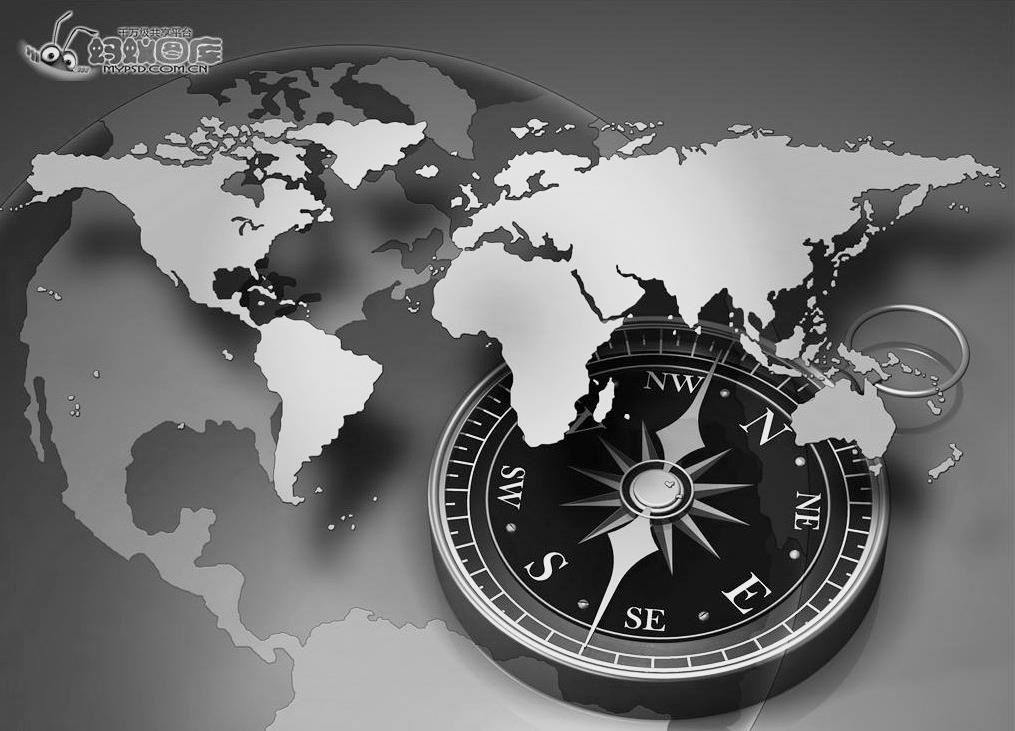
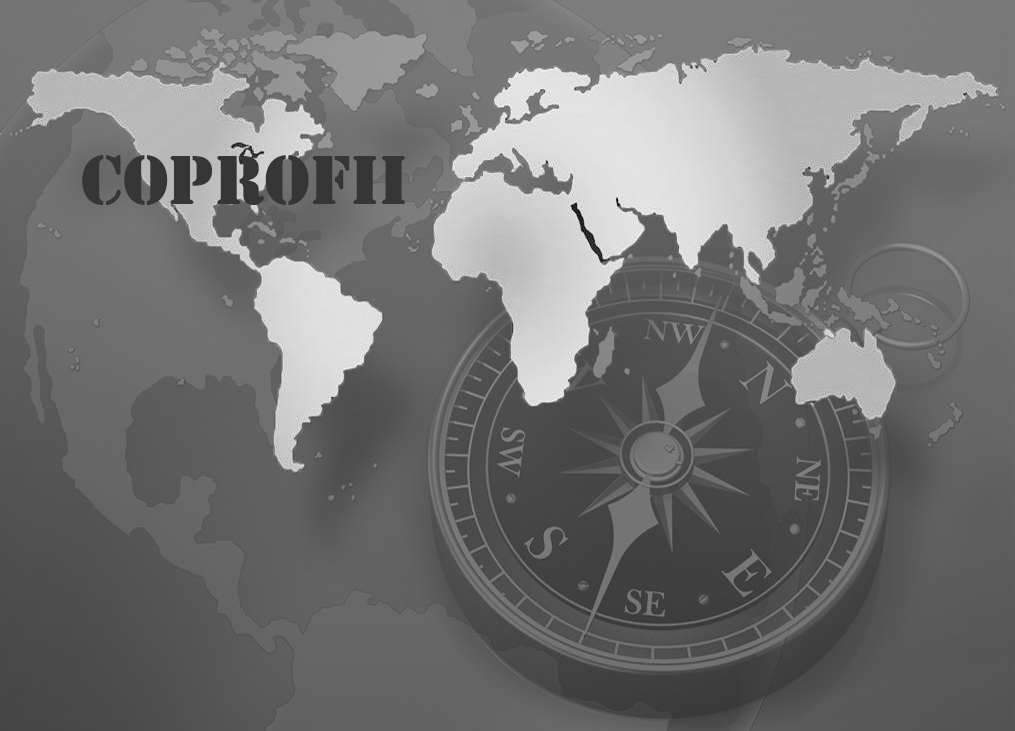
modify the interface of the software

diff --git a/Compass/src/nju/compass/GetData.java b/Compass/src/nju/compass/GetData.java
@@ -198,7 +198,7 @@ public class GetData extends java.util.TimerTask {
 			rowData[rowNumber][3] = df.format(1000.0 * (B * (1 + R * n / 12) - A * (1 + r * n / 12)));
 			content[rowNumber] = "At sight for RMB loans, with credit for RMB into Dollars in the bank. At the same time" 
 					+ time[i] + "s' equivalence dollars to buy the RMB.";
-					addcontent[rowNumber] = "This method successfully carry premise for forward contracts in the dollars to rise in" 
+			addcontent[rowNumber] = "This method successfully carry premise for forward contracts in the dollars to rise in" 
 					+ time[i] + "forward contracts to buy RMB to sell within the territory of the Dollar.";
 			rowNumber ++;
 		}
@@ -220,7 +220,7 @@ public class GetData extends java.util.TimerTask {
 					+ time[i] + "in the future, the duration of the loan for the interval months. Now a" + time[i] +
 					"period in sell the dollars forward contracts to buy the yuan, a" + time[j] + 
 					"period forward contracts to buy dollars to sell within the territory of the equivalent of RMB.";
-					addcontent[rowNumber] = "In interval months period, the RMB in the bank, with current term financial product yield increment.";
+			addcontent[rowNumber] = "In interval months period, the RMB in the bank, with current term financial product yield increment.";
 			rowNumber ++;
 			}
 		}
@@ -241,14 +241,39 @@ public class GetData extends java.util.TimerTask {
 					+ time[i] + "in the future, the duration of the loan for the interval months. Now a" + time[i] +
 					"period in sell the RMB forward contracts to buy the dollars, a" + time[j] + 
 					"period forward contracts to buy yuan to sell within the territory of the equivalent of dollars.";
-					addcontent[rowNumber] = "In interval months period, the dollars in the bank, with current term financial product yield increment.";
+			addcontent[rowNumber] = "In interval months period, the dollars in the bank, with current term financial product yield increment.";
 			rowNumber ++;
 			}
 		}
-		for (int i = 0; i < rowNumber; i++)
-			for (int j = 0; j < 4; j++)
-				rowData_t[i][j] = rowData[i][j];
 		
+		//System.out.print("{");
+		for (int i = 0; i < rowNumber; i++)
+		{
+			//System.out.print("{");
+			for (int j = 0; j < 4; j++)
+			{
+				rowData_t[i][j] = rowData[i][j];
+				//System.out.print("\"" + rowData[i][j] + "\"");
+				//if (j != 3) System.out.print(",");
+			}
+			//System.out.println("},");
+		}
+		/*
+		System.out.println("}");
+		System.out.print("{");
+		for (int i = 0; i < rowNumber; i++)
+		{
+			System.out.println("\"" + content[i] + "\",");
+		}
+		System.out.println("}");
+		System.out.print("{");
+		for (int i = 0; i < rowNumber; i++)
+		{
+			System.out.println("\"" + addcontent[i] + "\",");
+		}
+		System.out.println("}");
+		*/
+		System.out.println(rowNumber + "jinxin");
 		String Name = User.username;
 		String[] elements = {Name};
 		String[] property = {"name"};

diff --git a/Compass/src/nju/compass/Style.java b/Compass/src/nju/compass/Style.java
@@ -1,0 +1,16 @@
+package nju.compass;
+
+import java.awt.Color;
+
+public class Style {
+	final public static Color white = new Color(0xe0, 0xe0, 0xe0);
+	final public static Color yellow = new Color(0xe0, 0xd0, 0x30);
+	final public static Color blue = new Color(0x41, 0x83, 0xc4);
+	final public static Color red = new Color(0xcd, 0x2c, 0x00);
+	final public static Color green = new Color(0x7c, 0xd6, 0x54);
+	final public static Color darkGrey = new Color(0x30, 0x30, 0x30);
+	final public static Color lightGrey = new Color(0x40, 0x40, 0x40);
+	final public static Color focus = new Color(0x5c, 0xac, 0xee);
+	
+
+}

diff --git a/Compass/src/nju/compass/Panel_Forwarded.java b/Compass/src/nju/compass/Panel_Forwarded.java
@@ -22,7 +22,7 @@ public class Panel_Forwarded {
 		contentPane = new JPanel(){
 			public void paintComponent(Graphics g){
 				  try{
-				    g.drawImage(ImageIO.read(new    File("image/pic_7.jpg")),0
+				    g.drawImage(ImageIO.read(new    File("image/pic_test1.jpg")),0
 				                            ,0,this.getWidth(),this.getHeight(),this);
 				   }catch(IOException e){}
 				  }};

diff --git a/Compass/src/nju/compass/Login.java b/Compass/src/nju/compass/Login.java
@@ -53,7 +53,7 @@ public class Login {
 	 */
 	private void initialize() {
 		frame = new JFrame("Compass :: online service");
-		Image icon = Toolkit.getDefaultToolkit().getImage("image/image_2.jpg");   
+		Image icon = Toolkit.getDefaultToolkit().getImage("image/icon.png");   
 		frame.setIconImage(icon);
 		frame.setResizable(false);
 		JPanel contentPane = new JPanel(){
